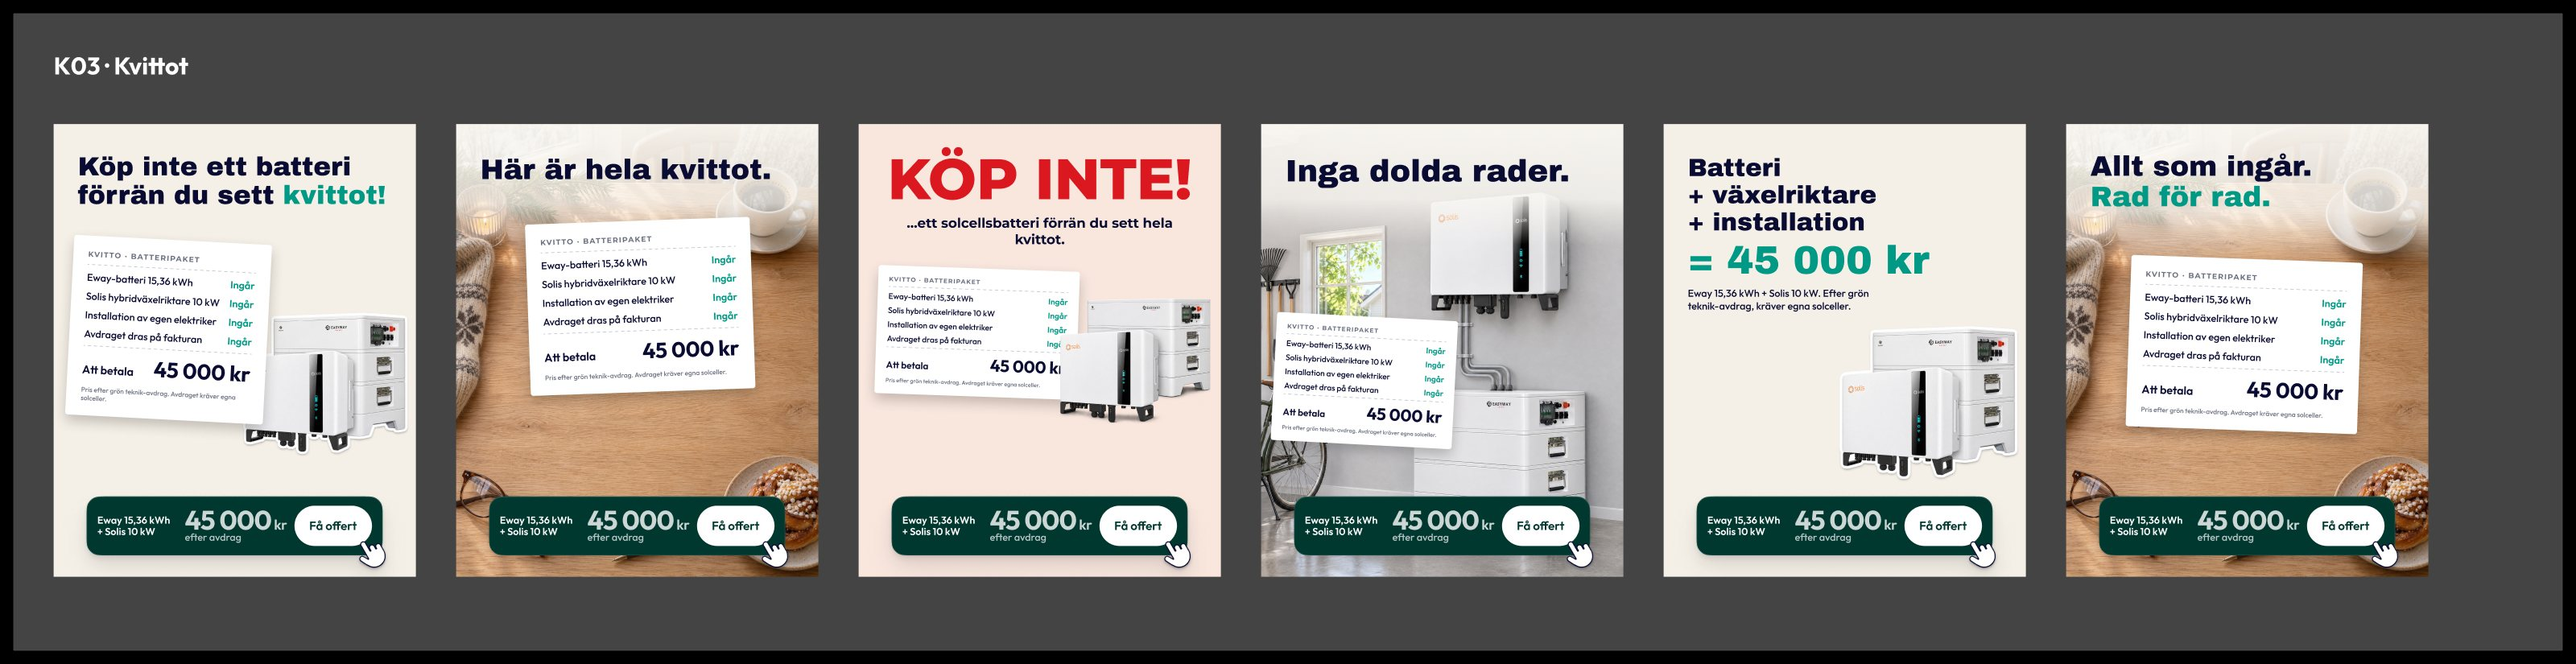
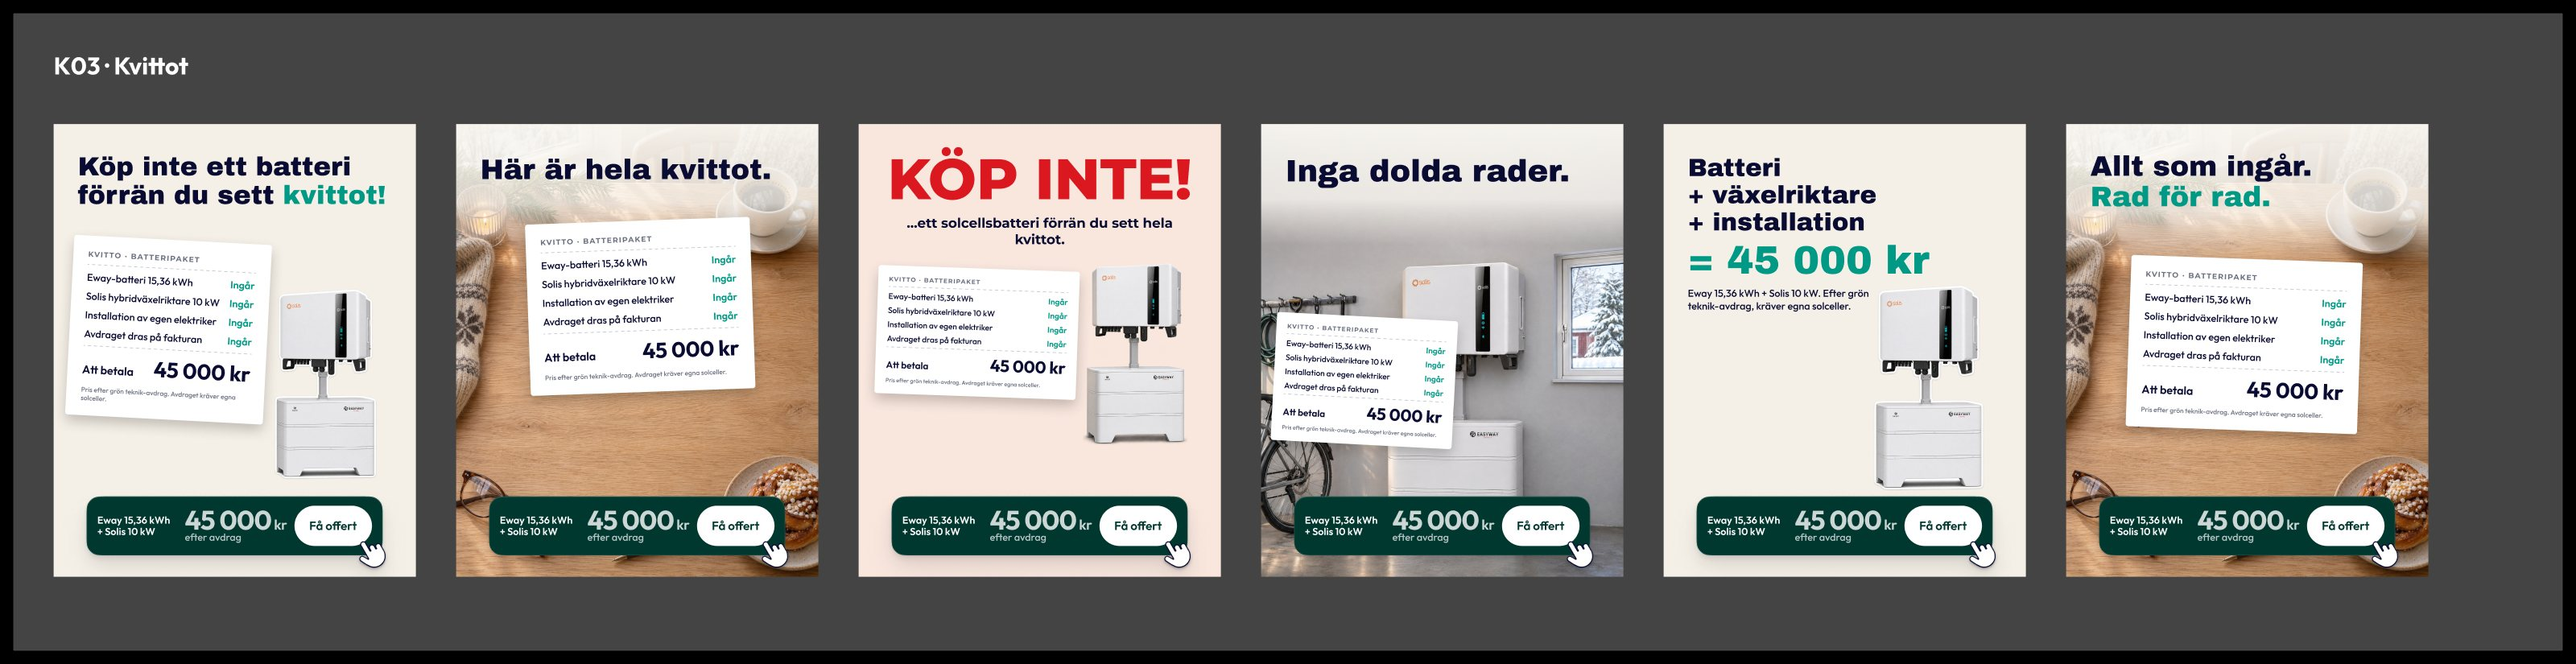
Batteri 70: produktbilderna omgjorda efter datablad (rätt skala, väggmonterad växelriktare)

Changed region(s): [[0.4062, 0.303, 0.6562, 0.8788], [0.7188, 0.4242, 0.7812, 0.7576], [0.0938, 0.4545, 0.1562, 0.7273]]

diff --git a/public/batteri-70/index.html b/public/batteri-70/index.html
@@ -6,7 +6,7 @@
 table{width:100%;border-collapse:collapse;background:var(--card);border:1px solid var(--line);border-radius:14px;overflow:hidden}td,th{text-align:left;padding:9px 12px;border-bottom:1px solid var(--line);vertical-align:top;font-size:15px}th{background:#efebe4;font-size:13px}
 .sek{background:var(--card);border:1px solid var(--line);border-radius:14px;margin:16px 0;overflow:hidden}.sek .h{padding:14px 16px;display:flex;flex-wrap:wrap;gap:8px 16px;align-items:baseline}.sek img{width:100%;display:block;border-top:1px solid var(--line)}
 a{color:#00715f}ul{padding-left:20px}li{margin:4px 0}.tw{overflow-x:auto}</style></head><body><div class=w>
-<div class=sub>Uppdrag 70 · 2026-11-10 · Ampy Meta · solcellsbatterier</div><h1>Batteri-storrycket: research, 12 koncept och 48 annonser</h1>
+<div class=sub>Uppdrag 70 · 2026-11-10 · uppdaterad samma kväll: produktbilderna omgjorda</div><h1>Batteri-storrycket: research, 12 koncept och 48 annonser</h1>
 <p class=sub>Allt ligger i Figma på sidan <a href='https://www.figma.com/design/2YDFPTGwFaYqLlChODiMY2/ADS-AMPY?node-id=2302-1729'>Batteri nov-dec</a>. Inget är uppladdat till Meta. Underlag: <code>~/Desktop/Meta/70-batteri-storryck/</code>.</p>
 <div class=grid><div class=c><div class=k>~460</div>lästa konkurrentannonser (SE 205, DE 100, US 79 + egna)</div><div class=c><div class=k>12</div>koncept, rangordnade</div><div class=c><div class=k>48</div>annonser producerade (64 ramar inkl. 9:16)</div><div class=c><div class=k>13</div>öppna frågor till säljarna (G1–G13)</div></div>
 <h2>Det viktigaste</h2><ul>
@@ -15,7 +15,10 @@ a{color:#00715f}ul{padding-left:20px}li{margin:4px 0}.tw{overflow-x:auto}</style
 <li><b>Säljarnas Black Month-bild visar fel produkt</b> ('EASTWAY ENERGY', fyra moduler). 15,36 kWh är två moduler. Ampy-versionen i Figma har rätt produkt och riktig logga.</li>
 <li><b>'Grön teknik försvinner vid årsskiftet' går inte att påstå.</b> Det finns inget beslut eller förslag. Budgeten för 2027 läggs 12/11 kl. 08.00 – läs den. Det som är sant: årets 50 000 kr per person kan inte sparas, och slutbetalningen avgör året.</li>
 <li><b>Köparen (65+) är rädd för installatören, inte batteriet.</b> Därför egen elektriker, kvittot och risk-reversal.</li>
-</ul><h2>Producerat i Figma</h2>
+</ul>
+<h2>Produktbilderna omgjorda (feedback 10/11)</h2><p>Alla bilder med Eway + Solis är gjorda om efter tillverkarnas datablad. Vänster: före. Höger: efter.</p><img src='img/fore-efter.jpg' style='width:100%;border-radius:12px;border:1px solid var(--line)' alt='Före och efter'>
+<ul><li><b>Batteriet</b> (Eway UNIV7600H, 2 moduler = 15,36 kWh) är 66 cm brett och 55 cm högt, alltså lågt och bredare än högt, i knähöjd. Tidigare promptade jag fel höjd (85 cm).</li><li><b>Framsidan är slät</b>: ON/OFF-knapp och EASYWAY-logga. Handtag och anslutningar sitter på högra kortsidan och syns inte framifrån.</li><li><b>Växelriktaren</b> (Solis S6, 60 x 50 cm) är nästan lika bred som batteriet och <b>sitter alltid på väggen</b>, cirka 110 cm upp, med en kabelkanal ner till batteriet. Den står aldrig på golvet eller en sockel.</li><li>Kalibrerad i två omgångar (GPT Image 2.6 mot Nano Banana Pro). GPT höll proportionerna bäst. Den godkända bilden används nu som referens för varje ny bild. Kontrollerad mot människor, dörrar och tvättmaskin i bild: batteriet blir cirka 60 cm högt.</li><li>Produktbibel med alla mått: <code>PRODUKTBIBEL.md</code>.</li></ul>
+<h2>Producerat i Figma</h2>
 <div class=sek><div class=h><b>01 · K01 Black Month</b><span class='tag'>Grind: G1, G7, G8</span><a href='https://www.figma.com/design/2YDFPTGwFaYqLlChODiMY2/ADS-AMPY?node-id=2307-1154'>Öppna i Figma →</a></div><div style='padding:0 16px 12px' class=sub>Säljarnas original (vänster) + Ampy-version med riktig logga, rätt produkt (2 moduler) och redigerbart pris i 4:5, 9:16, 1:1.</div><img loading=lazy src='img/01-black-month.jpg' alt='Black Month'></div>
 <div class=sek><div class=h><b>02 · K02 Låt inte årets grön teknik brinna inne</b><span class='tag'>Grind: G1, G5, budget 12/11</span><a href='https://www.figma.com/design/2YDFPTGwFaYqLlChODiMY2/ADS-AMPY?node-id=2311-1151'>Öppna i Figma →</a></div><div style='padding:0 16px 12px' class=sub>11 annonser: 6 foton + 5 tecknade, i både 4:5 och 9:16. Layout från laddboxens godkända Brinna inne.</div><img loading=lazy src='img/02-brinna-inne.jpg' alt='Låt inte årets grön teknik brinna inne'></div>
 <div class=sek><div class=h><b>03 · K03 Kvittot: allt som ingår i 45 000</b><span class='tag'>Grind: G1</span><a href='https://www.figma.com/design/2YDFPTGwFaYqLlChODiMY2/ADS-AMPY?node-id=2323-1170'>Öppna i Figma →</a></div><div style='padding:0 16px 12px' class=sub>6 annonser. Vår bästa annons (BAT-B1, 155 kr/lead) gjord ärlig: varje rad syns.</div><img loading=lazy src='img/03-kvittot.jpg' alt='Kvittot: allt som ingår i 45 000'></div>
